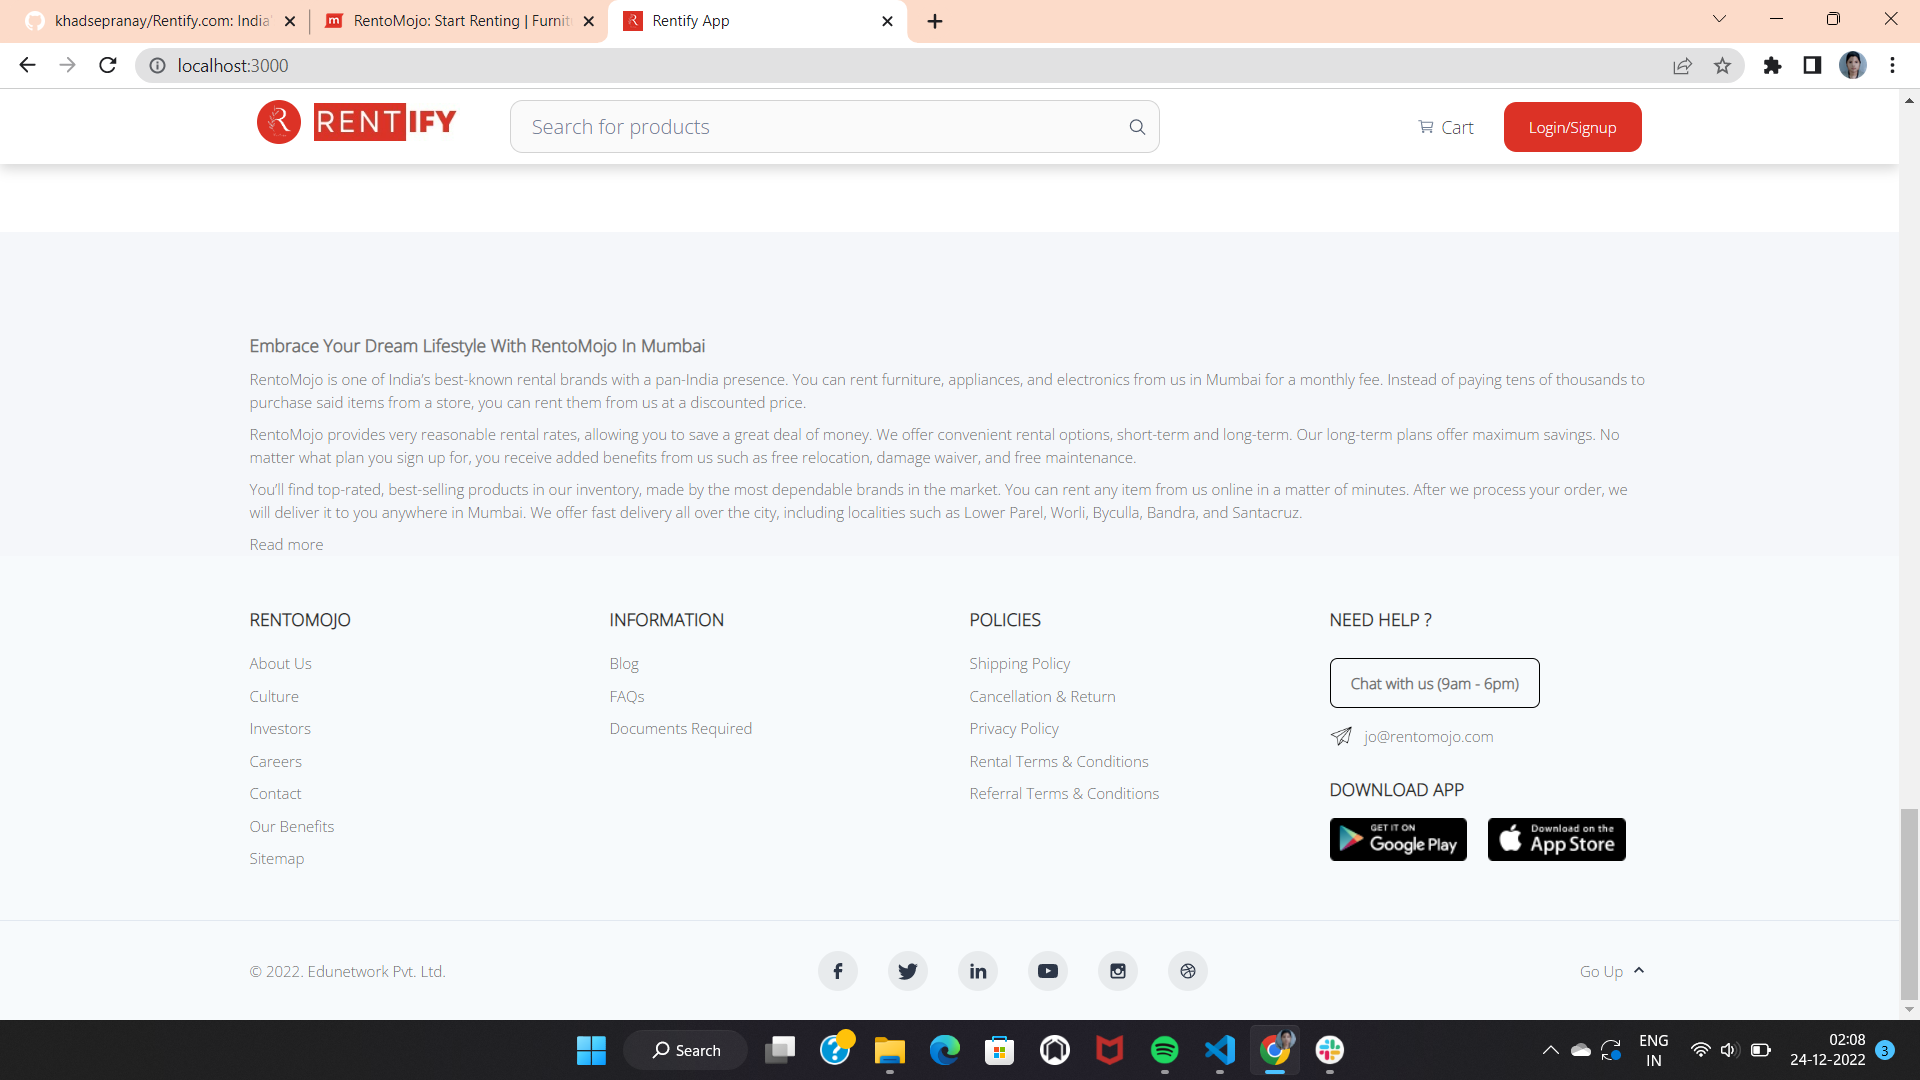
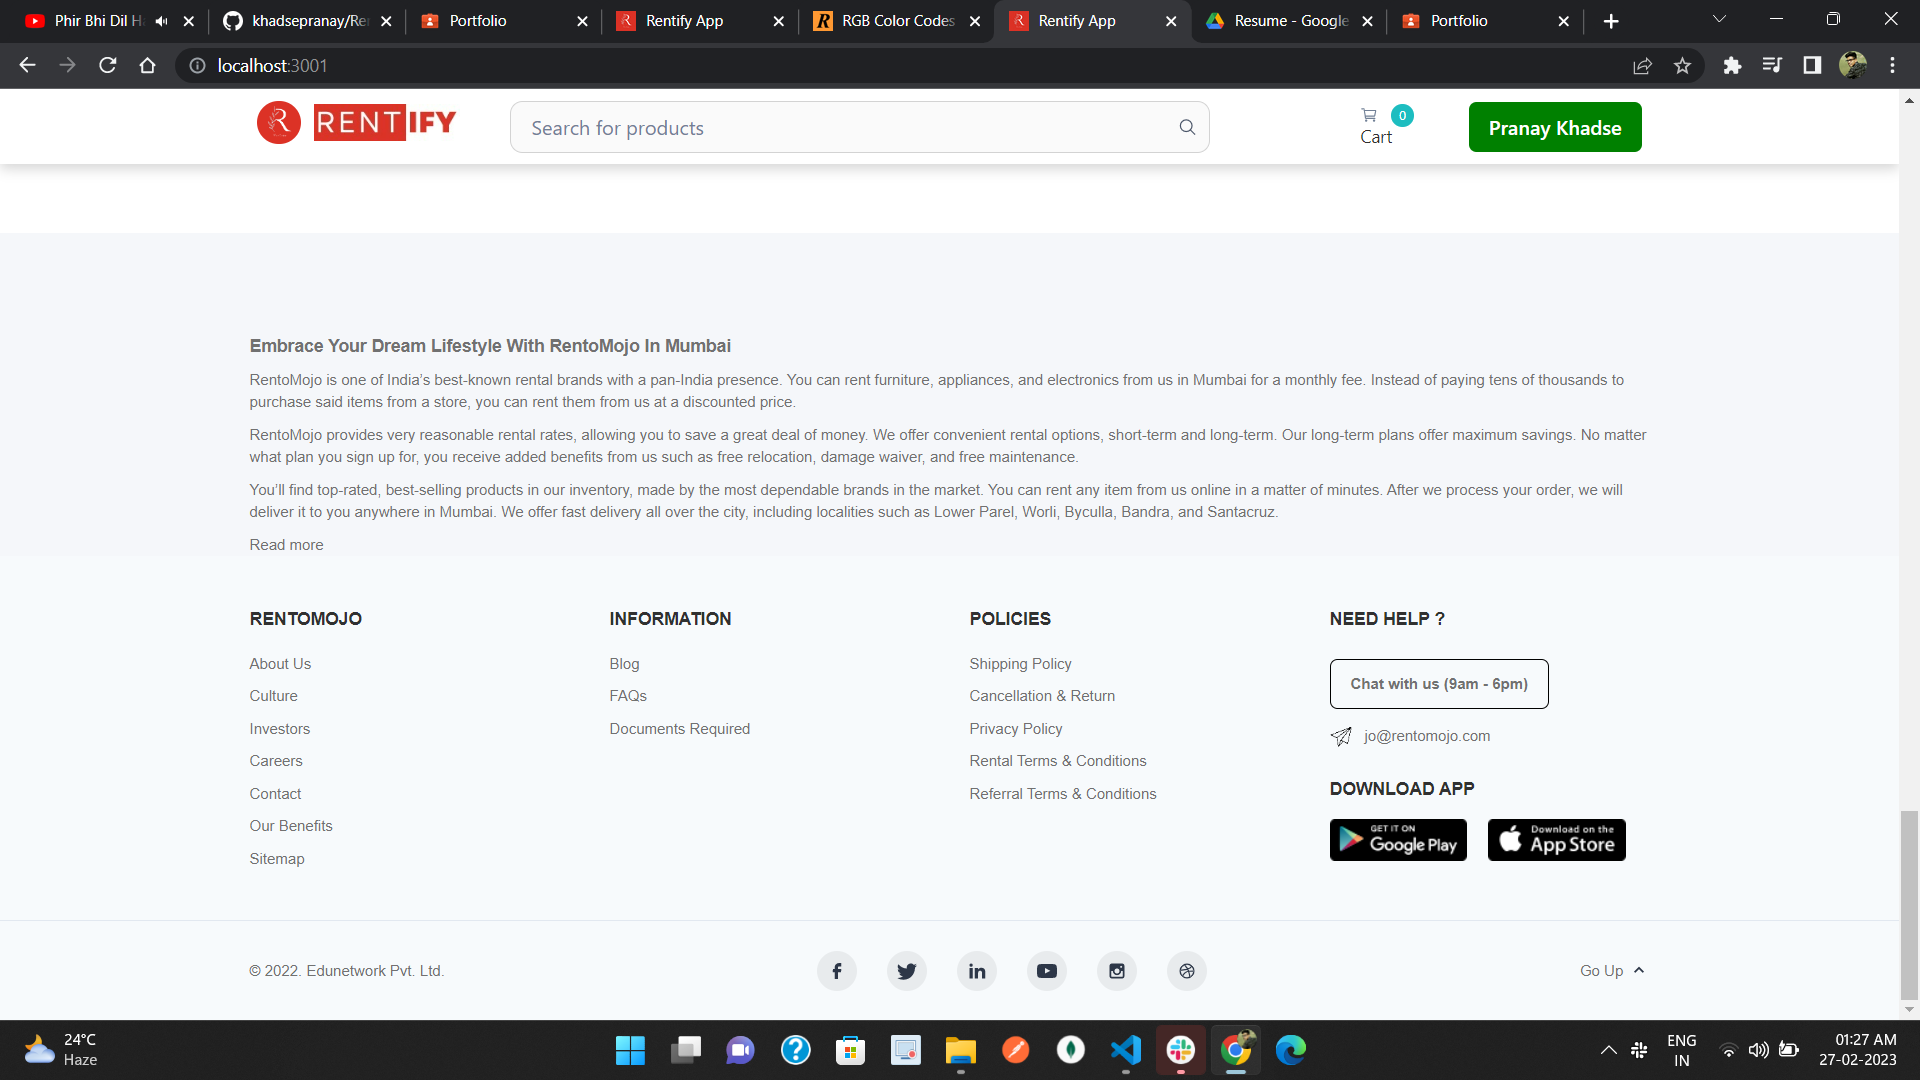
Pranay

diff --git a/rent_mojo/src/Components/RazorPay/RazorPay.jsx b/rent_mojo/src/Components/RazorPay/RazorPay.jsx
@@ -125,9 +125,114 @@ export default function Form() {
       <ChakraProvider>
         <HomeNavbar />
       </ChakraProvider>
-          <Card
-            style={{ boxShadow: "5px 5px 10px gray",width:'800px',margin:'130px auto' }}
-          >
+      {
+        window.innerWidth>810?<Card
+        style={{ boxShadow: "5px 5px 10px gray",width:'800px',margin:'130px auto' }}
+      >
+          
+            <CardContent>
+              <Grid
+                container
+                direction="row"
+                justify="center"
+                alignItems="center"
+              >
+                <Grid item xs={12}>
+                  <Stepper activeStep={activeStep} className={classes.stepper}>
+                    {steps.map((label, index) => {
+                      const stepProps = {};
+                      const labelProps = {};
+                      if (isStepOptional(index)) {
+                        labelProps.optional = (
+                          <Typography variant="caption"></Typography>
+                        );
+                      }
+                      if (isStepSkipped(index)) {
+                        stepProps.completed = false;
+                      }
+                      return (
+                        <Step key={label} {...stepProps}>
+                          <StepLabel {...labelProps}>{label}</StepLabel>
+                        </Step>
+                      );
+                    })}
+                  </Stepper>
+                </Grid>
+                <Grid item xs={12}>
+                  <div className={classes.actions}>
+                    {activeStep === steps.length ? (
+                      <div>
+                        <Typography
+                          className={classes.instructions}
+                        ></Typography>
+                        <Button
+                          onClick={handleReset}
+                          className={classes.button}
+                        >
+                          Reset
+                        </Button>
+                      </div>
+                    ) : (
+                      <div>
+                        <Typography
+                          className={classes.instructions}
+                          style={{ height: "350px" }}
+                        >
+                          {getStepContent(activeStep)}
+                          <br />
+                        </Typography>
+                        <div className={classes.actions}>
+                          {activeStep == 3 || activeStep == 0 ? null : (
+                            <Button
+                              disabled={activeStep === 0}
+                              onClick={handleBack}
+                              className={classes.button}
+                              style={{
+                                backgroundColor: "#ff3333",
+                                color: "white",
+                                width: "100px",
+                              }}
+                            >
+                              Back
+                            </Button>
+                          )}
+
+                          {activeStep === steps.length - 1 ? (
+                            <Button
+                              style={{
+                                backgroundColor: "teal",
+                                color: "white",
+                                width: "100px",
+                              }}
+                              onClick={() => Navigate("/")}
+                            >
+                              Home
+                            </Button>
+                          ) : (
+                            <Button
+                              variant="contained"
+                              onClick={handleNext}
+                              className={classes.button}
+                              style={{
+                                backgroundColor: "teal",
+                                color: "white",
+                                width: "100px",
+                              }}
+                            >
+                              Next
+                            </Button>
+                          )}
+                        </div>
+                      </div>
+                    )}
+                  </div>
+                </Grid>
+              </Grid>
+            </CardContent>
+          </Card>:<Card
+        style={{ boxShadow: "5px 5px 10px gray",width:'400px',margin:'130px auto' }}
+      >
+          
             <CardContent>
               <Grid
                 container
@@ -228,6 +333,7 @@ export default function Form() {
               </Grid>
             </CardContent>
           </Card>
+}
     </div>
   );
 }

diff --git a/rent_mojo/src/Components/Home/HomePage.jsx b/rent_mojo/src/Components/Home/HomePage.jsx
@@ -1,4 +1,4 @@
-import { Box, Flex, Grid, GridItem, Image, Show, SimpleGrid, Text, VStack } from "@chakra-ui/react";
+import { Box, ChakraProvider, Flex, Grid, GridItem, Image, Show, SimpleGrid, Text, VStack } from "@chakra-ui/react";
 import { Link } from "react-router-dom";
 import { useState, useEffect } from "react"
 import axios from "axios"
@@ -7,6 +7,7 @@ import AutoSlider from "./AutoSlider"
 import HomeCarousel from "./HomeCarousel/HomeCarousel"
 import {MoreRenting} from './MoreRenting'
 import ReviewCarousel from "./ReviewCarousel"
+import Footer from "./Footer";
 
 const iconsDiv = [
 
@@ -67,12 +68,12 @@ function scrollToTop() {
                 <AutoSlider />
                 {/* // Passing `columns={[2, null, 3]}` and `columns={{ sm: 2, md: 3 }}`
             // will have the same effect. */}
-                <Box width={{ base: '95%', sm: '95%', md: '95%', lg: '75%' }} zIndex={'100'} position={"relative"} margin={'auto'} marginTop={{base:"-250px",sm:"-200px",md:"150px",lg:'-90px',xl:"50px"}}>
+                <Box width={{ base: '95%', sm: '95%', md: '95%', lg: '75%' }} zIndex={'100'} position={"relative"} margin={{base:"-250px auto 0px",sm:"-150px auto 0px",md:"-60px auto 30px",lg:'-50px auto',xl:"50px auto 50px"}}>
                     <SimpleGrid columns={[3, 4, 4, 5, 6]} spacing='25px'>
                         {
                             iconsDiv.map((el) => (
                                 <Link key={el.id} to={el.href}> 
-                                <Box key={el.id} cursor={'pointer'} height='120px' border={'1px solid #e2eaf0'} borderRadius={'10px'} _hover={{ background: "#fff", boxShadow: "rgba(50, 50, 93, 0.25) 0px 13px 27px -5px, rgba(0, 0, 0, 0.3) 0px 8px 16px -8px" }}>
+                                <Box key={el.id} cursor={'pointer'} height='120px' boxShadow={'5px 5px 20px #e2eaf0'} borderRadius={'10px'} _hover={{ background: "#fff", boxShadow: "rgba(50, 50, 93, 0.25) 0px 13px 27px -5px, rgba(0, 0, 0, 0.3) 0px 8px 16px -8px" }}>
                                     <Flex direction={'column'} alignItems={'center'} justifyContent={'center'} padding={'30px'}>
                                         <Image src={el.icon} alt="icon-image-1" width={'30px'} />
                                         <Text>{el.iconName}</Text>
@@ -99,6 +100,7 @@ function scrollToTop() {
                     <ReviewCarousel />
                 </Box>
             </Box>
+            <ChakraProvider><Footer/></ChakraProvider>
         </Box>
     )
 }

diff --git a/rent_mojo/src/Components/Products/SingleProduct/SingleProduct.jsx b/rent_mojo/src/Components/Products/SingleProduct/SingleProduct.jsx
@@ -11,6 +11,7 @@ import { isadded, newProductAdded } from "../../../Redux/cart/actions";
 import { isAddedToCart } from "../../../Redux/cart/actionTypes";
 import { useToast } from "@chakra-ui/react";
 import { LoadingButton } from "@mui/lab";
+import Footer from '../../Home/Footer'
 
 function SingleProduct() {
   let location = useLocation();
@@ -146,29 +147,6 @@ function SingleProduct() {
               margin: "auto",
             }}
           ></Box>
-          <Box
-            sx={{
-              display: "flex",
-              justifyContent: "space-between",
-              gap: "20px",
-              textAlign: "left",
-              border: "1px solid gray",
-              padding: "10px",
-              borderRadius: "10px",
-              marginTop: "50px",
-            }}
-          >
-            <Box
-              component="img"
-              src="https://www.rentomojo.com/public/images/icons/virusSafetyGreen.png"
-              sx={{ width: "50px" }}
-            ></Box>
-            <Box>
-              Safety precautions during COVID-19. We’re taking additional steps
-              and precautionary measures to protect our community from COVID-19.
-            </Box>
-            <Box>Know More</Box>
-          </Box>
         </Box>
         <Box sx={{ padding: "100px auto", width: "100%" }}>
           <Box sx={{ fontSize: "22px", fontWeight: "600", color: "#313131" }}>
@@ -262,6 +240,7 @@ function SingleProduct() {
           </Box>
         </Box>
       </Box>
+      <ChakraProvider><Footer/></ChakraProvider>
     </Box>
   );
 }

diff --git a/rent_mojo/src/Components/Home/Login.jsx b/rent_mojo/src/Components/Home/Login.jsx
@@ -56,7 +56,7 @@ function Login() {
         sx={{
           width: "100vw",
           padding: "100px auto 0px",
-          paddingTop: "100px",
+          paddingTop:'80px',
           boxSizing: "border-box",
         }}
       >
@@ -70,9 +70,9 @@ function Login() {
               fontSize: "35px",
               boxShadow: "1px 1px 5px grey",
               backgroundColor: "white",
-              padding: "30px",
-              height: "350px",
-              width: { lg: "560px", md: "560px", sm: "510px", xs: "440px" },
+              padding: {lg:'20px',md:'20px',sm:'20px',xs:'10px'},
+              height: "290px",
+              width: { lg: "560px", md: "560px", sm: "550px", xs: "320px" },
               margin: "20px auto",
             }}
           >
@@ -81,8 +81,9 @@ function Login() {
             </Box>
             <Stack
               sx={{
-                width: { lg: "500px", md: "500px", sm: "450px", xs: "380px" },
+                width: { lg: "500px", md: "500px", sm: "480px", xs: "280px" },
                 height: "200px",
+                margin:'auto'
               }}
               gap="20px"
             >
@@ -113,7 +114,7 @@ function Login() {
               <LoadingButton
                 variant="contained"
                 sx={{
-                  marginTop: { lg: "15px", md: "15px", sm: "15px", xs: "15px" },
+                  marginTop: { lg: "15px", md: "15px", sm: "15px", xs: "15px" }
                 }}
                 onClick={(e) => handleLogin(e)}
                 loading={buttonLoading}

diff --git a/rent_mojo/src/Components/Home/Signup.jsx b/rent_mojo/src/Components/Home/Signup.jsx
@@ -72,9 +72,9 @@ function Signup() {
               fontSize: "35px",
               boxShadow: "1px 1px 5px grey",
               backgroundColor: "white",
-              padding: "30px",
-              height: "570px",
-              width: { lg: "560px", md: "560px", sm: "510px", xs: "440px" },
+              padding: {lg:'20px',md:'20px',sm:'20px',xs:'10px'},
+              height: "520px",
+              width: { lg: "560px", md: "560px", sm: "510px", xs: "320px" },
               margin: "20px auto",
             }}
           >
@@ -84,7 +84,7 @@ function Signup() {
             <FormControl>
             <Stack
               sx={{
-                width: { lg: "500px", md: "500px", sm: "450px", xs: "380px" },
+                width: { lg: "500px", md: "500px", sm: "450px", xs: "280px" },
                 height: "200px",
               }}
               gap="20px"
@@ -152,7 +152,7 @@ function Signup() {
               <LoadingButton
                 variant="contained"
                 sx={{
-                  width: { lg: "100%", md: "100%", sm: "460px", xs: "80vw" },
+                  width: { lg: "100%", md: "100%", sm: "460px", xs: "280px" },
                   marginTop: { lg: "15px", md: "15px", sm: "15px", xs: "15px" },
                 }}
                 loading={buttonLoading}

diff --git a/rent_mojo/src/Components/Home/AutoSlider.jsx b/rent_mojo/src/Components/Home/AutoSlider.jsx
@@ -125,7 +125,7 @@ export default function AutoSlider() {
                 </Slider>
             </Box>
             {
-                windowSize.innerWidth < 1050 ? null :
+                windowSize.innerWidth < 1280 ? null :
                     <Flex gap={{ base: "2px", md: "2px", sm: "2px", lg: "5px" }} justifyContent={'center'} alignItems={'center'} mt={{ sm: "-250px", lg: "10px" }}>
                         <Image src='https://www.rentomojo.com/public/images/icons/virusSafetyGreen.png' width={'20px'} />
                         <Text>

diff --git a/rent_mojo/src/Components/Home/HomeNavbar.jsx b/rent_mojo/src/Components/Home/HomeNavbar.jsx
@@ -326,13 +326,12 @@ export default function HomeNavbar() {
 								 sx={{backgroundColor:'#E90303',
 								 color:'white',
 								 fontSize:'12px',
-								 width:{base:"80px",sm:"100px",md:"120px",lg:"140px",xl:"150px"},
 								 _hover:{backgroundColor:'#ff3333',
 								 transitionDuration:'0.5s',
 								 transitionTimingFunction:'ease-out'
 								}}}
 								>
-									SIGNUP/LOGIN
+									LOGIN/SIGNUP
 							   </Button>
 							</RefLink>
 						}

diff --git a/Backend/index.js b/Backend/index.js
@@ -6,7 +6,6 @@ const { product } = require("./Routes/product_Routes");
 const { cart } = require("./Routes/cart_Routes");
 let Port = process.env.Port;
 
-const { userAuthMiddleware } = require("./Middleware/userAuthMiddleware");
 const cors = require("cors");
 const category = require("./Routes/categoryData_route");
 

diff --git a/rent_mojo/src/App.js b/rent_mojo/src/App.js
@@ -8,7 +8,6 @@ function App() {
   return (
     <div className="App">
       <Routers/>
-      <ChakraProvider><Footer/></ChakraProvider>
     </div>
   );
 }

diff --git a/rent_mojo/README.md b/rent_mojo/README.md
@@ -24,56 +24,41 @@ In this project we have made the foolowing things :
 ***
 ## Landing Page :
 
-![home](img/home.png)
+![home1](img/HomePage.png)
 
-![home1](img/home1.png)
-
-![home2](img/home2.png)
-
-![home3](img/home3.png)
-
-![search](img/search.png)
+![home2](img/Search.png)
 
 
 ## Sign In page :
 
-![signup](img/login.png)
+![login](img/Login.png)
 
-![signup1](img/login1.png)
-
-![signup2](img/login3.png)
+![signup](img/Signup.png)
 
 ## Products Page:
 
-![products](img/products1.png)
+![products](img/Category.png)
 
-![products](img/products2.png)
+![products](img/SubCategory.png)
 
-![products](img/products3.png)
-
-![products](img/products4.png)
-
-![products](img/products5.png)
-
-![products](img/products6.png)
-
-![products](img/products7.png)
+![products](img/SingleProduct.png)
 
 
 
 ## Cart Page : 
 
-![cart](img/cart.png)
-
-![cart1](img/cart1.png)
+![cart](img/Cart.png)
 
 ## Order Successful Page : 
 
-![orderPlaced](success.png)
+![orderPlaced](Pay1.png)
+![orderPlaced](Pay2.png)
+![orderPlaced](Pay3.png)
+![orderPlaced](Pay4.png)
 
 ## Footer Page :
 
-![footer](img/footer.png)
+![footer](img/Footer.png)
 
 ## Learnings :
 - Real-life implementation of React,Redux,Chakra-UI.
